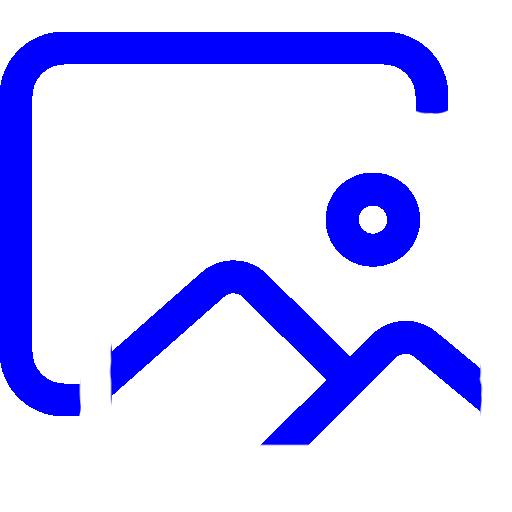
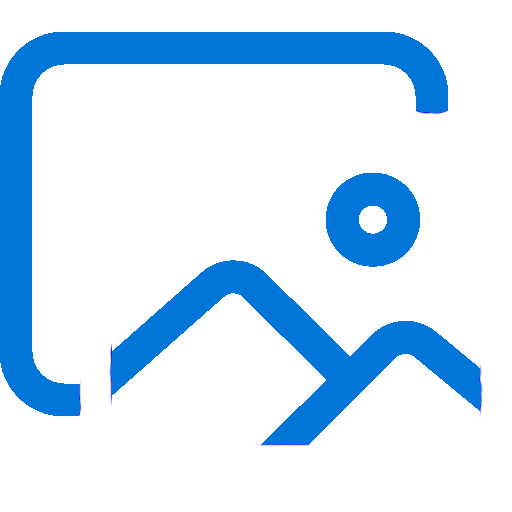
changes color in development process from blue to primary.

Changed region(s): [[0.0, 0.0625, 0.875, 0.8125], [0.2188, 0.5, 0.9375, 0.875], [0.625, 0.3125, 0.8438, 0.5312]]

diff --git a/index.html b/index.html
@@ -96,17 +96,10 @@
                   My goal is to deliver premium websites, by providing excellent user experience through high quality content and animation, As well as providing essential functionally every modern website needs.
               </div>
 
-<<<<<<< HEAD
               <div class="col-sm d-flex align-items-center">
                   <img class="profile-pic" src="images/Portfolio.JPG" style="width:500px;height:700px">
               </div>
             </section>
-=======
-            <div class="col-sm d-flex align-items-center">
-                <img class="profile-pic rotate90" src="images/Piortfolio.JPG" style="width:700px;height:500px">
-            </div>
-          </section>
->>>>>>> 343ba8fd1df617057de79179e1bc2c3b12256a1c
 
           <section id="services" class=" services" style="height:1000px">
             <div class="row" style="margin-top:300px;margin-left:200px;">
@@ -204,7 +197,7 @@
             
             <div class="row contact-row">
               <div class="col-sm"  style="margin-top:5%;">
-                <h4 class="process-text text-white"><strong style="color:blue;">Initial Contact</strong> Interested in any of the services offered above? Send me an email using the contact form to get started.</h4>
+                <h4 class="process-text text-white"><strong class="text-primary">Initial Contact</strong> Interested in any of the services offered above? Send me an email using the contact form to get started.</h4>
               </div>
 
               <div class="col-sm"  style="margin-top:5%;">
@@ -214,7 +207,7 @@
 
             <div class="row vision-row">
               <div class="col-sm">
-                <h4 class="process-text text-white"><strong style="color:blue;">Vision</strong> Tell me the vision of your website for your brand or business and I will make it a reality.</h4>
+                <h4 class="process-text text-white"><strong class="text-primary">Vision</strong> Tell me the vision of your website for your brand or business and I will make it a reality.</h4>
               </div>
 
               <div class="col-sm">
@@ -224,7 +217,7 @@
 
             <div class="row content-delivery-row">
               <div class="col-sm">
-                <h4 class="process-text text-white"><strong style="color:blue;">Content Delivery</strong> Images, text and social media links. Give me the content you want and I will package it into your website.</h4>
+                <h4 class="process-text text-white"><strong class="text-primary">Content Delivery</strong> Images, text and social media links. Give me the content you want and I will package it into your website.</h4>
               </div>
 
               <div class="col-sm">
@@ -234,7 +227,7 @@
 
             <div class="row development-row">
               <div class="col-sm">
-                <h4 class="process-text text-white"><strong style="color:blue;">Development</strong> This step is where the magic happens. After telling me your vision and providing content. I will combine these to create the website of your dreams. </h4>
+                <h4 class="process-text text-white"><strong class="text-primary">Development</strong> This step is where the magic happens. After telling me your vision and providing content. I will combine these to create the website of your dreams. </h4>
               </div>
 
               <div class="col-sm">
@@ -244,7 +237,7 @@
 
             <div class="row approval-row">
               <div class="col-sm">
-                <h4 class="process-text text-white"><strong style="color:blue;">Approval</strong> After development I will present the website for your review for any final changes before launch. </h4>
+                <h4 class="process-text text-white"><strong class="text-primary">Approval</strong> After development I will present the website for your review for any final changes before launch. </h4>
               </div>
 
               <div class="col-sm">
@@ -254,7 +247,7 @@
             
             <div class="row launch-row">
               <div class="col-sm">
-                <h4 class="process-text text-white"><strong style="color:blue;">Launch</strong> Your big day has finally arrived where you can launch your website and have a place for your brand or business on the internet to call home. </h4>
+                <h4 class="process-text text-white"><strong class="text-primary">Launch</strong> Your big day has finally arrived where you can launch your website and have a place for your brand or business on the internet to call home. </h4>
               </div>
 
               <div class="col-sm">
